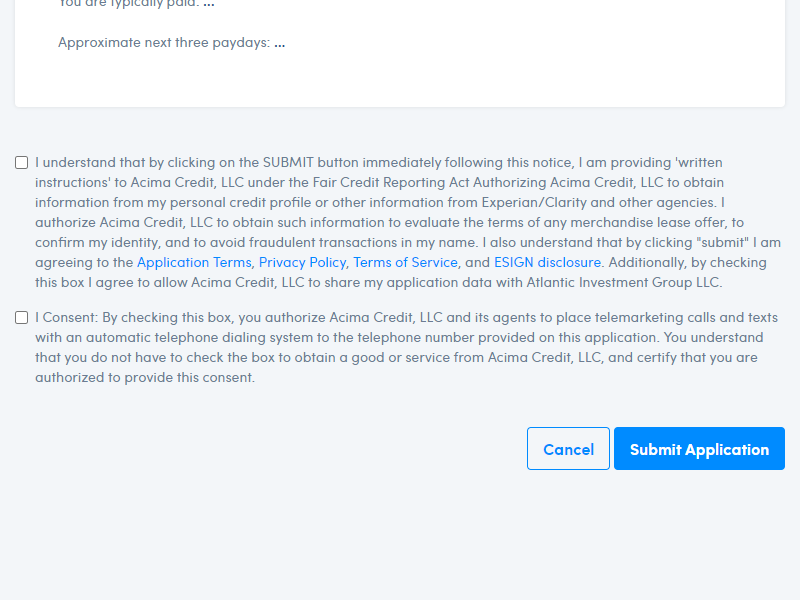
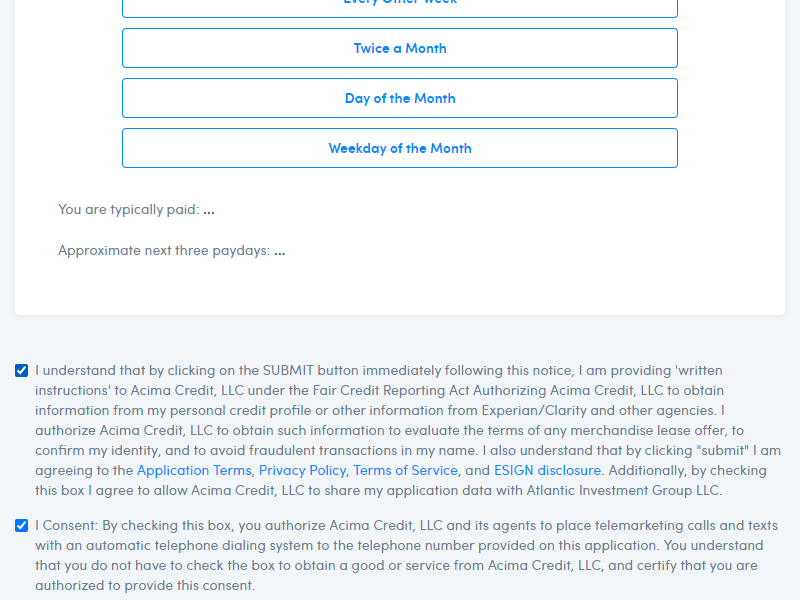
timer added

diff --git a/test.js b/test.js
@@ -125,6 +125,7 @@ const puppeteer = require('puppeteer');
   // const bankName= await page.$('#contract_applications_forms_contract_application_form_banking_attributes_bank_name');
   // await bankName.type(bank_name);
 
+  // await page.waitForTimeout(4000);
   //selection
   var income_source=process.env.income_source;
   const incomeSource= await page.$('#contract_applications_forms_contract_application_form_applicant_primary_income_attributes_income_source');
@@ -138,6 +139,25 @@ const puppeteer = require('puppeteer');
   var monthly_income=process.env.monthly_income;
   const monthlyIncome= await page.$('#contract_applications_forms_contract_application_form_applicant_primary_income_attributes_monthly_net');
   await monthlyIncome.type(monthly_income);
+
+
+  // var often_paid=process.env.often_paid;
+  // const oftenPaid= await page.$('#contract_applications_forms_contract_application_form_applicant_primary_income_attributes_schedule_frequency_twice_a_month');
+  // await oftenPaid.click();
+  
+  await Promise.all([
+   
+    await page.click("#remember", {clickCount:1}), //first checkbox
+    await   page.waitForSelector('#contract_applications_forms_contract_application_form_contract_details_attributes_consent_to_automated_communications')
+
+    // await page.click('a.btn.btn-lg.btn-primary');
+    // await   page.waitForNavigation()
+     
+   
+
+  ]);
+  
+  await page.click("#contract_applications_forms_contract_application_form_contract_details_attributes_consent_to_automated_communications", {clickCount:1});
   
   await page.screenshot({ path: 'example.png' });
   // await browser.close();
